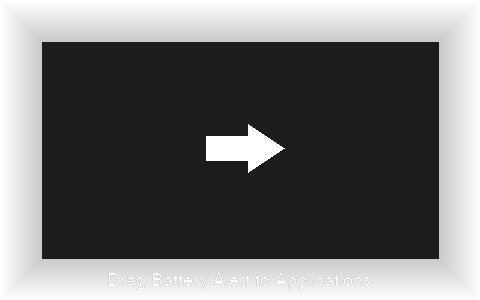
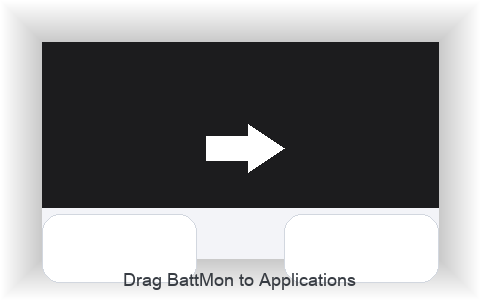
fix(dmg): improve installer label contrast

Changed region(s): [[0.0625, 0.69, 0.9375, 0.99]]

diff --git a/assets/dmg_background.py b/assets/dmg_background.py
@@ -27,6 +27,8 @@ def main() -> None:
     image = Image.new("RGBA", (WIDTH, HEIGHT), (28, 28, 30, 255))
     draw = ImageDraw.Draw(image)
 
+    draw.rectangle([0, HEIGHT - 92, WIDTH, HEIGHT], fill=(242, 244, 248, 235))
+
     for inset in range(42):
         alpha = int(55 * (inset / 42))
         draw.rectangle([inset, inset, WIDTH - inset, HEIGHT - inset], outline=(0, 0, 0, alpha))
@@ -48,11 +50,18 @@ def main() -> None:
         fill=(255, 255, 255, 120),
     )
 
+    label_boxes = [
+        (42, 214, 196, 282),
+        (284, 214, 438, 282),
+    ]
+    for box in label_boxes:
+        draw.rounded_rectangle(box, radius=18, fill=(255, 255, 255, 248), outline=(210, 215, 223, 255))
+
     font = _load_font(18)
     text = "Drag BattMon to Applications"
     bbox = draw.textbbox((0, 0), text, font=font)
     text_width = bbox[2] - bbox[0]
-    draw.text(((WIDTH - text_width) // 2, HEIGHT - 34), text, fill=(255, 255, 255, 165), font=font)
+    draw.text(((WIDTH - text_width) // 2, HEIGHT - 34), text, fill=(39, 44, 52, 235), font=font)
 
     image.save("assets/[email redacted]")
     print("DMG background written to assets/[email redacted]")